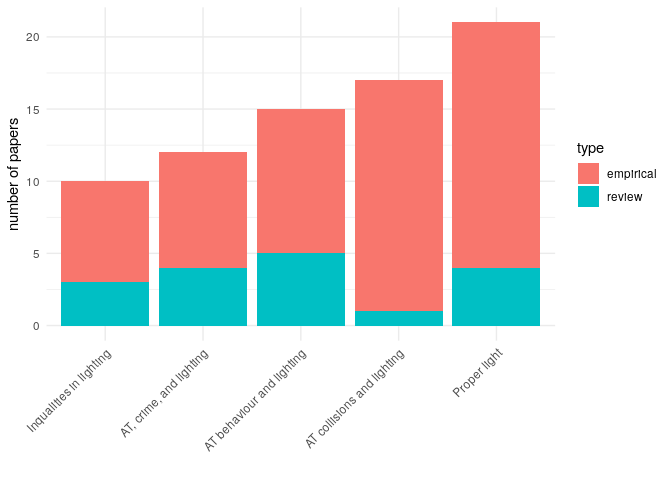
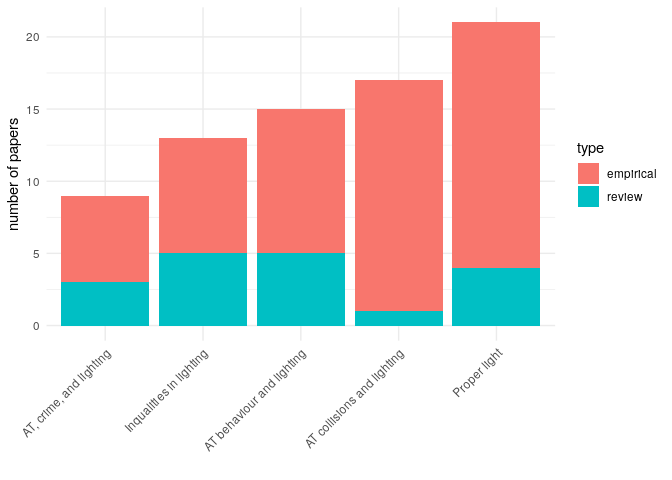
update

diff --git a/README.md b/README.md
@@ -4,11 +4,10 @@ Active Travel and Road Lighting: A Review
 # Abstract
 
 Background: There is evidence that darkness discourages people from
-walking and cycling. This is basically due to two reasons. Darkness
-increases pedestrians’ and cyclists’ fear and risk of 1) being involved
-in a road collision and 2) becoming victims of crime. This seems to
-affect disproportionately women, the elderly, and disadvantaged groups.
-Aim: This paper provides a review on the scientific literature that
+walking and cycling. This is basically due to pedestrians’ and cyclists’
+fear of injury from traffic, falls, or violence. This seems to affect
+disproportionately women, the elderly, and disadvantaged groups. Aim:
+This paper provides a review on the scientific literature that
 intersects between active travel and road lighting. Method: We used a
 hybrid systematic and snowballing method. TBC studies on several
 disciplines such as transportation, public health, road safety,
@@ -97,6 +96,7 @@ Second, we checked all the references from the studies selected
 texts, TBC additional papers were selected. In total, TBC were reviewed.
 A flow chart of included studies is shown in Figure 1.
 
+<!-- Consider doing the search only for papers from 2000 -->
 <!-- Papers we could not access: -->
 <!-- - A CONTROVERSIAL HISTORY OF PEDESTRIAN SPACE LIGHTING IN MOSCOW. -->
 <!-- Safe on the move: The importance of the built environment (  Book Chapter) 
@@ -141,7 +141,8 @@ identified themes (some of the papers deal with more than one).
 The main themes of focus were proper lighting for active travel,
 followed by active travel collisions and lighting, and active travel
 behaviour and lighting. Three-quarters of the studies were empirical
-studies, a quarter were reviews.
+studies (five of them qualitative research the rest quantitative) and a
+quarter were reviews.
 
 ## Active travel behaviour and lighting
 
@@ -785,7 +786,7 @@ empirical
 </tr>
 <tr>
 <td style="text-align:left;">
-\[Siddiqui, Chu, and Guttenplan (2006)
+Siddiqui, Chu, and Guttenplan (2006)
 </td>
 <td style="text-align:right;">
 2006
@@ -820,9 +821,14 @@ empirical
 Another fundamental factor that explains less walking and cycling during
 night-time is fear of crime.
 
-There is evidence that street lighting decreases crime (references
-needed) and reassurance of pedestrians and cyclists (e.g. Rahm,
-Sternudd, and Johansson (2021)).
+There is evidence that street lighting decreases crime and enhances
+reassurance and confidence of pedestrians and cyclists after dark (e.g.
+Rahm, Sternudd, and Johansson (2021); Loukaitou-Sideris (2006); Cozens
+et al. (2003); Painter (1996)).
+
+“Perceived safety tends to affect the physical activity of groups
+already known to exhibit greater anxiety about crime” (Foster and
+Giles-Corti 2008).
 
 People’s perceived nighttime safety (qualitative research):
 
@@ -835,6 +841,11 @@ perceived brightness. The findings further indicate that some
 environmental context attributes, environmental perception attributes,
 and socio-demographic attributes, also significantly influence people’s
 perceived safety” (Wu and Kim 2016).
+
+“Danger was predicted by the pleasantness of the lighting, gender,
+brightness and environmental trust” (Johansson, Rosén, and Küller 2011).
+
+methodological inconsistencies
 
 <table class="table" style="margin-left: auto; margin-right: auto;">
 <caption>
@@ -918,33 +929,7 @@ empirical
 </tr>
 <tr>
 <td style="text-align:left;">
-</td>
-<td style="text-align:right;">
-2015
-</td>
-<td style="text-align:left;">
-Road lighting and pedestrian reassurance after dark: A review
-</td>
-<td style="text-align:left;">
-review
-</td>
-</tr>
-<tr>
-<td style="text-align:left;">
-</td>
-<td style="text-align:right;">
-2014
-</td>
-<td style="text-align:left;">
-The role of the built environment on perceived safety from crime and
-walking: examining direct and indirect impacts
-</td>
-<td style="text-align:left;">
-empirical
-</td>
-</tr>
-<tr>
-<td style="text-align:left;">
+Johansson, Rosén, and Küller (2011)
 </td>
 <td style="text-align:right;">
 2011
@@ -959,6 +944,7 @@ empirical
 </tr>
 <tr>
 <td style="text-align:left;">
+Foster and Giles-Corti (2008)
 </td>
 <td style="text-align:right;">
 2008
@@ -973,6 +959,7 @@ review
 </tr>
 <tr>
 <td style="text-align:left;">
+Loukaitou-Sideris (2006)
 </td>
 <td style="text-align:right;">
 2006
@@ -1002,19 +989,7 @@ review
 </tr>
 <tr>
 <td style="text-align:left;">
-</td>
-<td style="text-align:right;">
-2000
-</td>
-<td style="text-align:left;">
-Perceptions of safety at night in different lighting conditions
-</td>
-<td style="text-align:left;">
-empirical
-</td>
-</tr>
-<tr>
-<td style="text-align:left;">
+Painter (1996)
 </td>
 <td style="text-align:right;">
 1996
@@ -1034,6 +1009,14 @@ empirical
 
 Both the fear of having an accident and the fear of being a victim of
 crime seem to affect groups differently.
+
+“Perceived safety tends to affect the physical activity of groups
+already known to exhibit greater anxiety about crime” (Foster and
+Giles-Corti 2008).
+
+“Studies that focused on women, children, and the elderly have been able
+to identify a stronger link between feelings of risk and fear at the
+neighborhood and high levels of inactivity” (Loukaitou-Sideris 2006).
 
 ### Gender
 
@@ -1206,6 +1189,51 @@ Annear et al. (2014)
 <td style="text-align:left;">
 Environmental influences on healthy and active ageing: A systematic
 review
+</td>
+<td style="text-align:left;">
+review
+</td>
+</tr>
+<tr>
+<td style="text-align:left;">
+Johansson, Rosén, and Küller (2011)
+</td>
+<td style="text-align:right;">
+2011
+</td>
+<td style="text-align:left;">
+Individual factors influencing the assessment of the outdoor lighting of
+an urban footpath
+</td>
+<td style="text-align:left;">
+empirical
+</td>
+</tr>
+<tr>
+<td style="text-align:left;">
+Foster and Giles-Corti (2008)
+</td>
+<td style="text-align:right;">
+2008
+</td>
+<td style="text-align:left;">
+The built environment, neighborhood crime and constrained physical
+activity: An exploration of inconsistent findings
+</td>
+<td style="text-align:left;">
+review
+</td>
+</tr>
+<tr>
+<td style="text-align:left;">
+Loukaitou-Sideris (2006)
+</td>
+<td style="text-align:right;">
+2006
+</td>
+<td style="text-align:left;">
+Is it safe to walk? Neighborhood safety and security considerations and
+their effects on walking
 </td>
 <td style="text-align:left;">
 review
@@ -1571,6 +1599,10 @@ increase and be safer?**
 
 -   No research on wheeling and lighting
 
+-   Measurement limitations (see Foster and Giles-Corti (2008)).
+
+-   Methodological inconsistencies (see Loukaitou-Sideris (2006))
+
 ## Strenghts and limitations
 
 -   Systematic but selection of papers we subjectively found more
@@ -1668,6 +1700,15 @@ Injury Prevention* 23 (7): 434–39.
 
 </div>
 
+<div id="ref-foster_built_2008" class="csl-entry">
+
+Foster, Sarah, and Billie Giles-Corti. 2008. “The Built Environment,
+Neighborhood Crime and Constrained Physical Activity: An Exploration of
+Inconsistent Findings.” *Preventive Medicine* 47 (3): 241–51.
+<https://doi.org/10.1016/j.ypmed.2008.03.017>.
+
+</div>
+
 <div id="ref-fotios_lighting_2017" class="csl-entry">
 
 Fotios, S, and Hf Castleton. 2017. “Lighting for Cycling in the UK—A
@@ -1713,6 +1754,15 @@ Injury Crash Patterns Under Different Lighting Conditions.”
 
 </div>
 
+<div id="ref-johansson_individual_2011" class="csl-entry">
+
+Johansson, M., M. Rosén, and R. Küller. 2011. “Individual Factors
+Influencing the Assessment of the Outdoor Lighting of an Urban
+Footpath.” *Lighting Research & Technology* 43 (1): 31–43.
+<https://doi.org/10.1177/1477153510370757>.
+
+</div>
+
 <div id="ref-lee_neighbourhood_2008" class="csl-entry">
 
 Lee, Chanam, and Anne Vernez Moudon. 2008. “Neighbourhood Design and
@@ -1728,6 +1778,15 @@ Liu, Jing, Jingyu Li, Kun Wang, Jianyou Zhao, Haozhe Cong, and Ping He.
 Accidents Under Low Illumination Conditions.” *Advances in Mechanical
 Engineering* 11 (4): 1687814019840940.
 <https://doi.org/10.1177/1687814019840940>.
+
+</div>
+
+<div id="ref-loukaitou-sideris_is_2006" class="csl-entry">
+
+Loukaitou-Sideris, Anastasia. 2006. “Is It Safe to Walk?1 Neighborhood
+Safety and Security Considerations and Their Effects on Walking.”
+*Journal of Planning Literature* 20 (3): 219–32.
+<https://doi.org/10.1177/0885412205282770>.
 
 </div>
 
@@ -1759,6 +1818,15 @@ Miranda-Moreno, Luis Amador, and Jean-François Bruneau. 2016. “Road
 Lighting Effects on Bicycle and Pedestrian Accident Frequency: Case
 Study in Montreal, Quebec, Canada.” *Transportation Research Record*
 2555 (1): 86–94. <https://doi.org/10.3141/2555-12>.
+
+</div>
+
+<div id="ref-painter_influence_1996" class="csl-entry">
+
+Painter, Kate. 1996. “The Influence of Street Lighting Improvements on
+Crime, Fear and Pedestrian Street Use, After Dark.” *Landscape and Urban
+Planning* 35 (2-3): 193–201.
+<https://doi.org/10.1016/0169-2046(96)00311-8>.
 
 </div>
 
